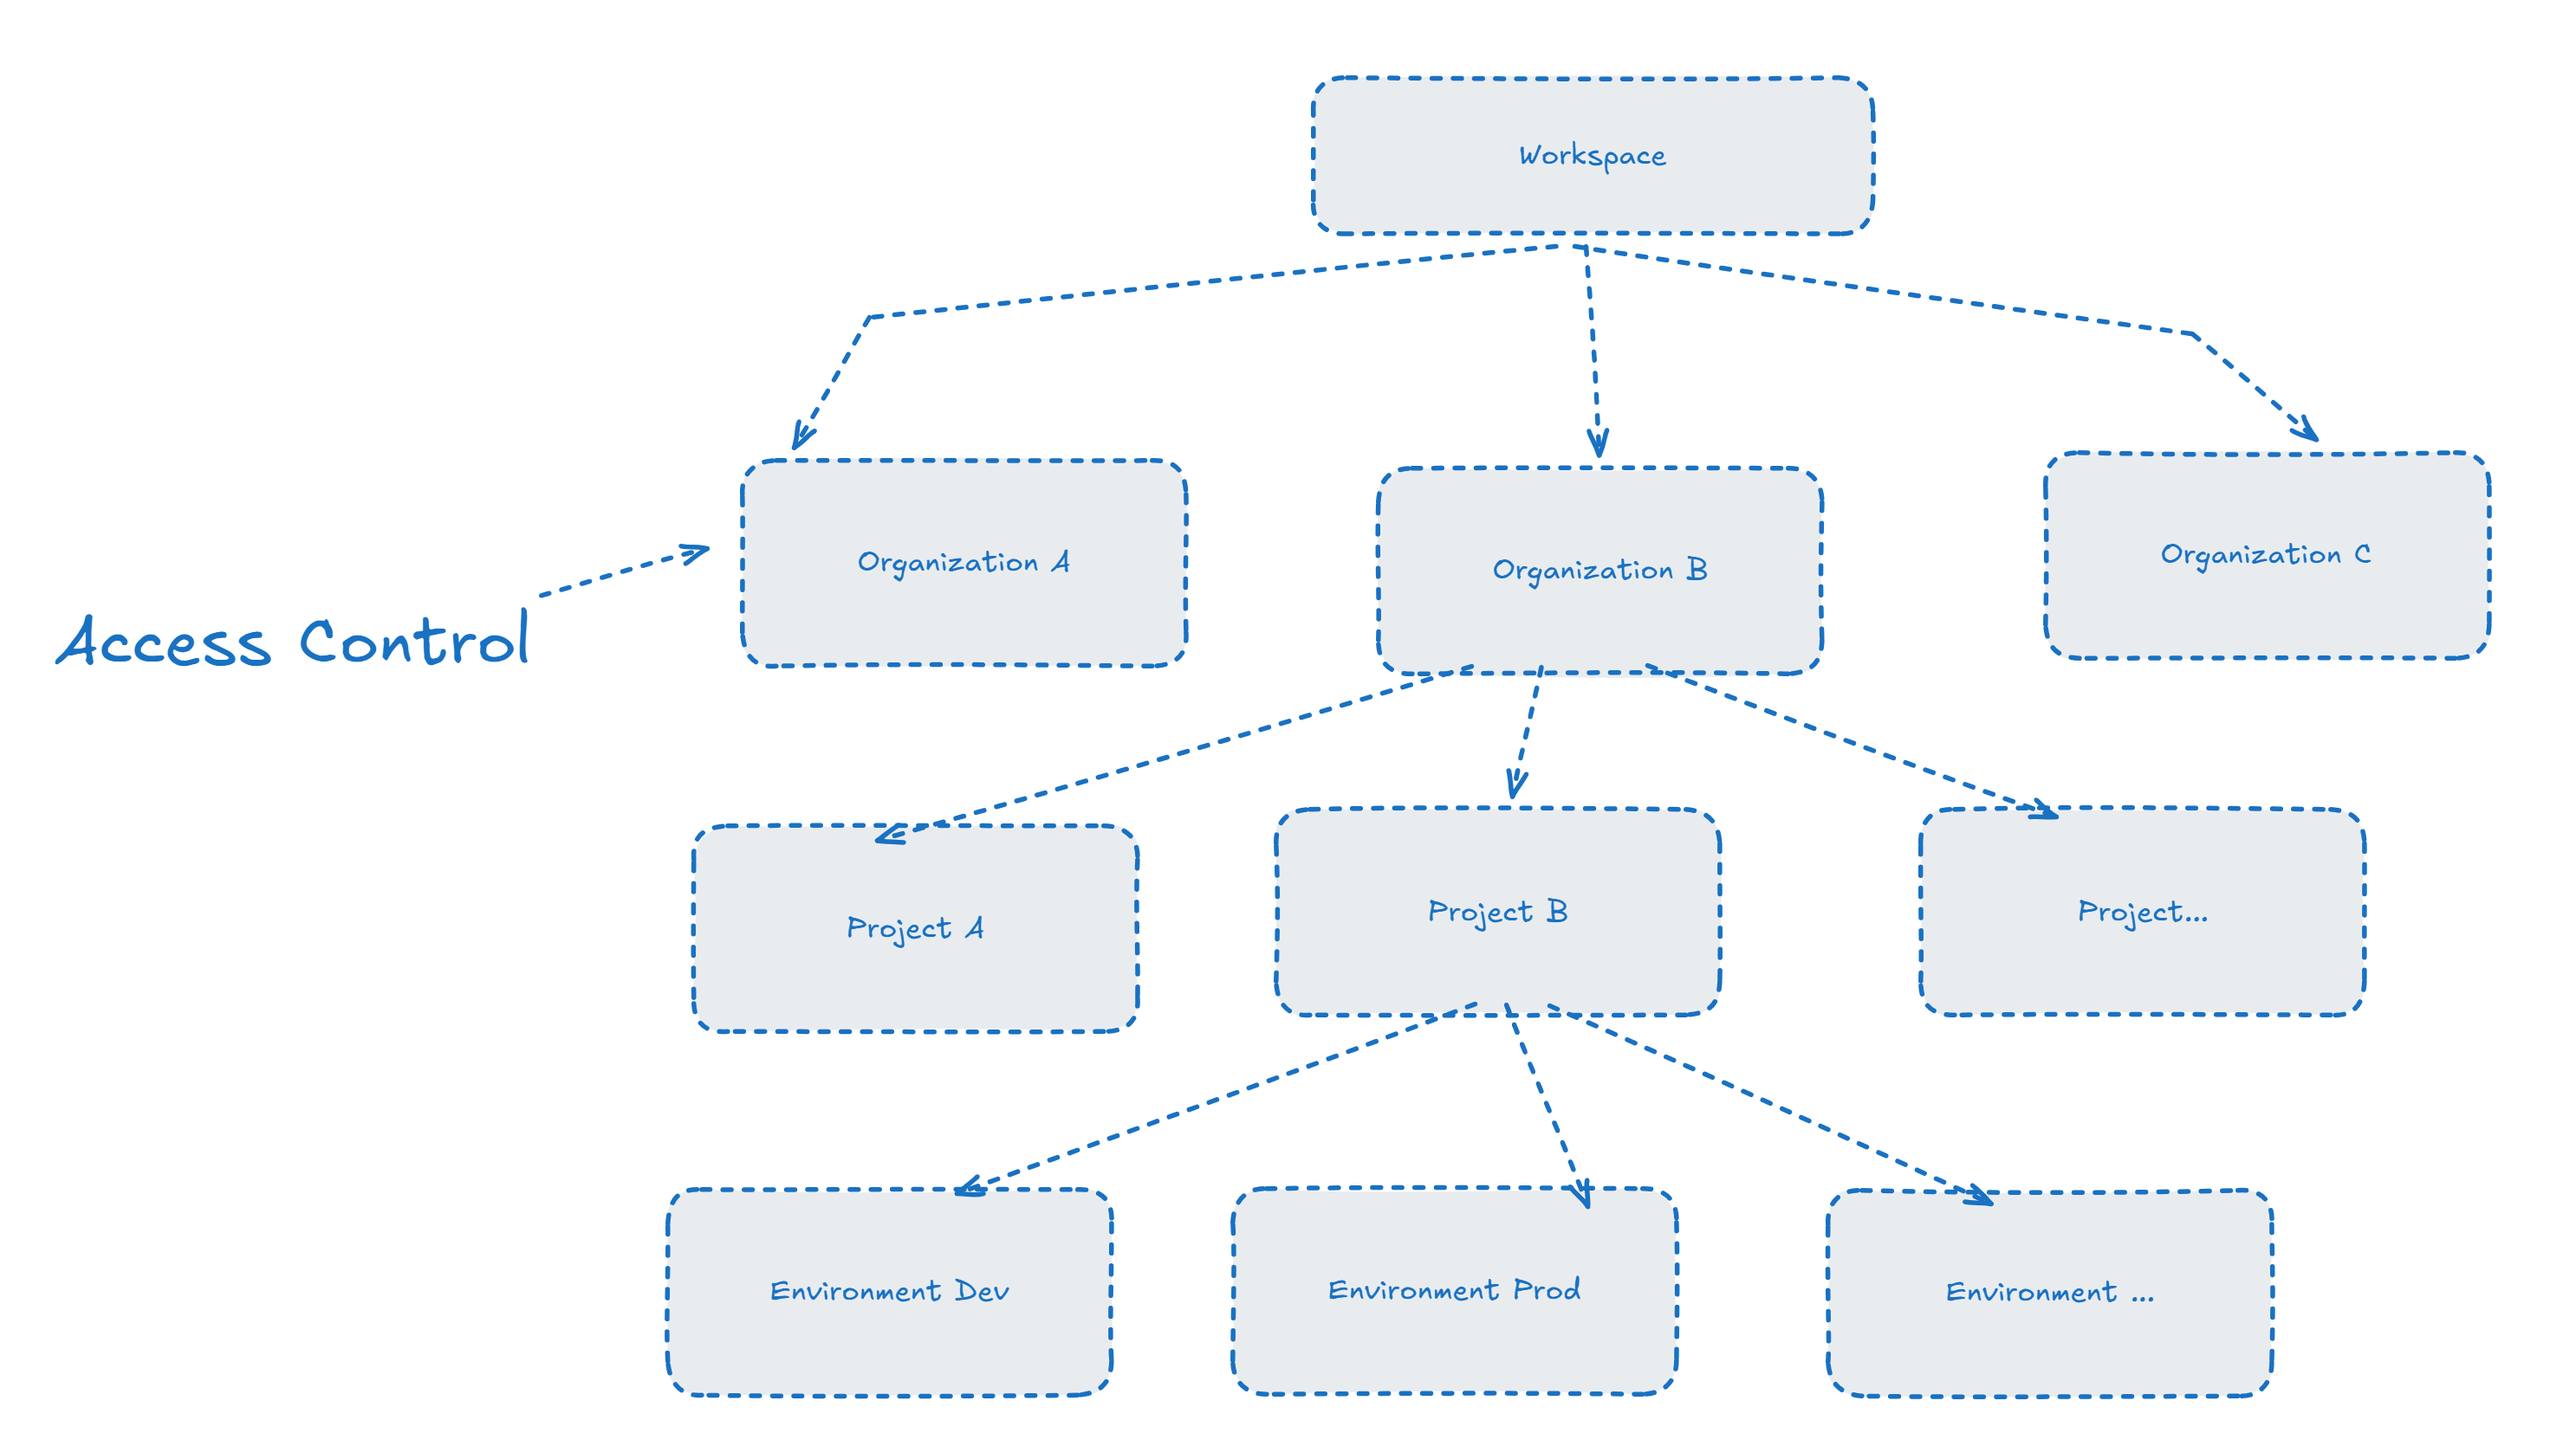
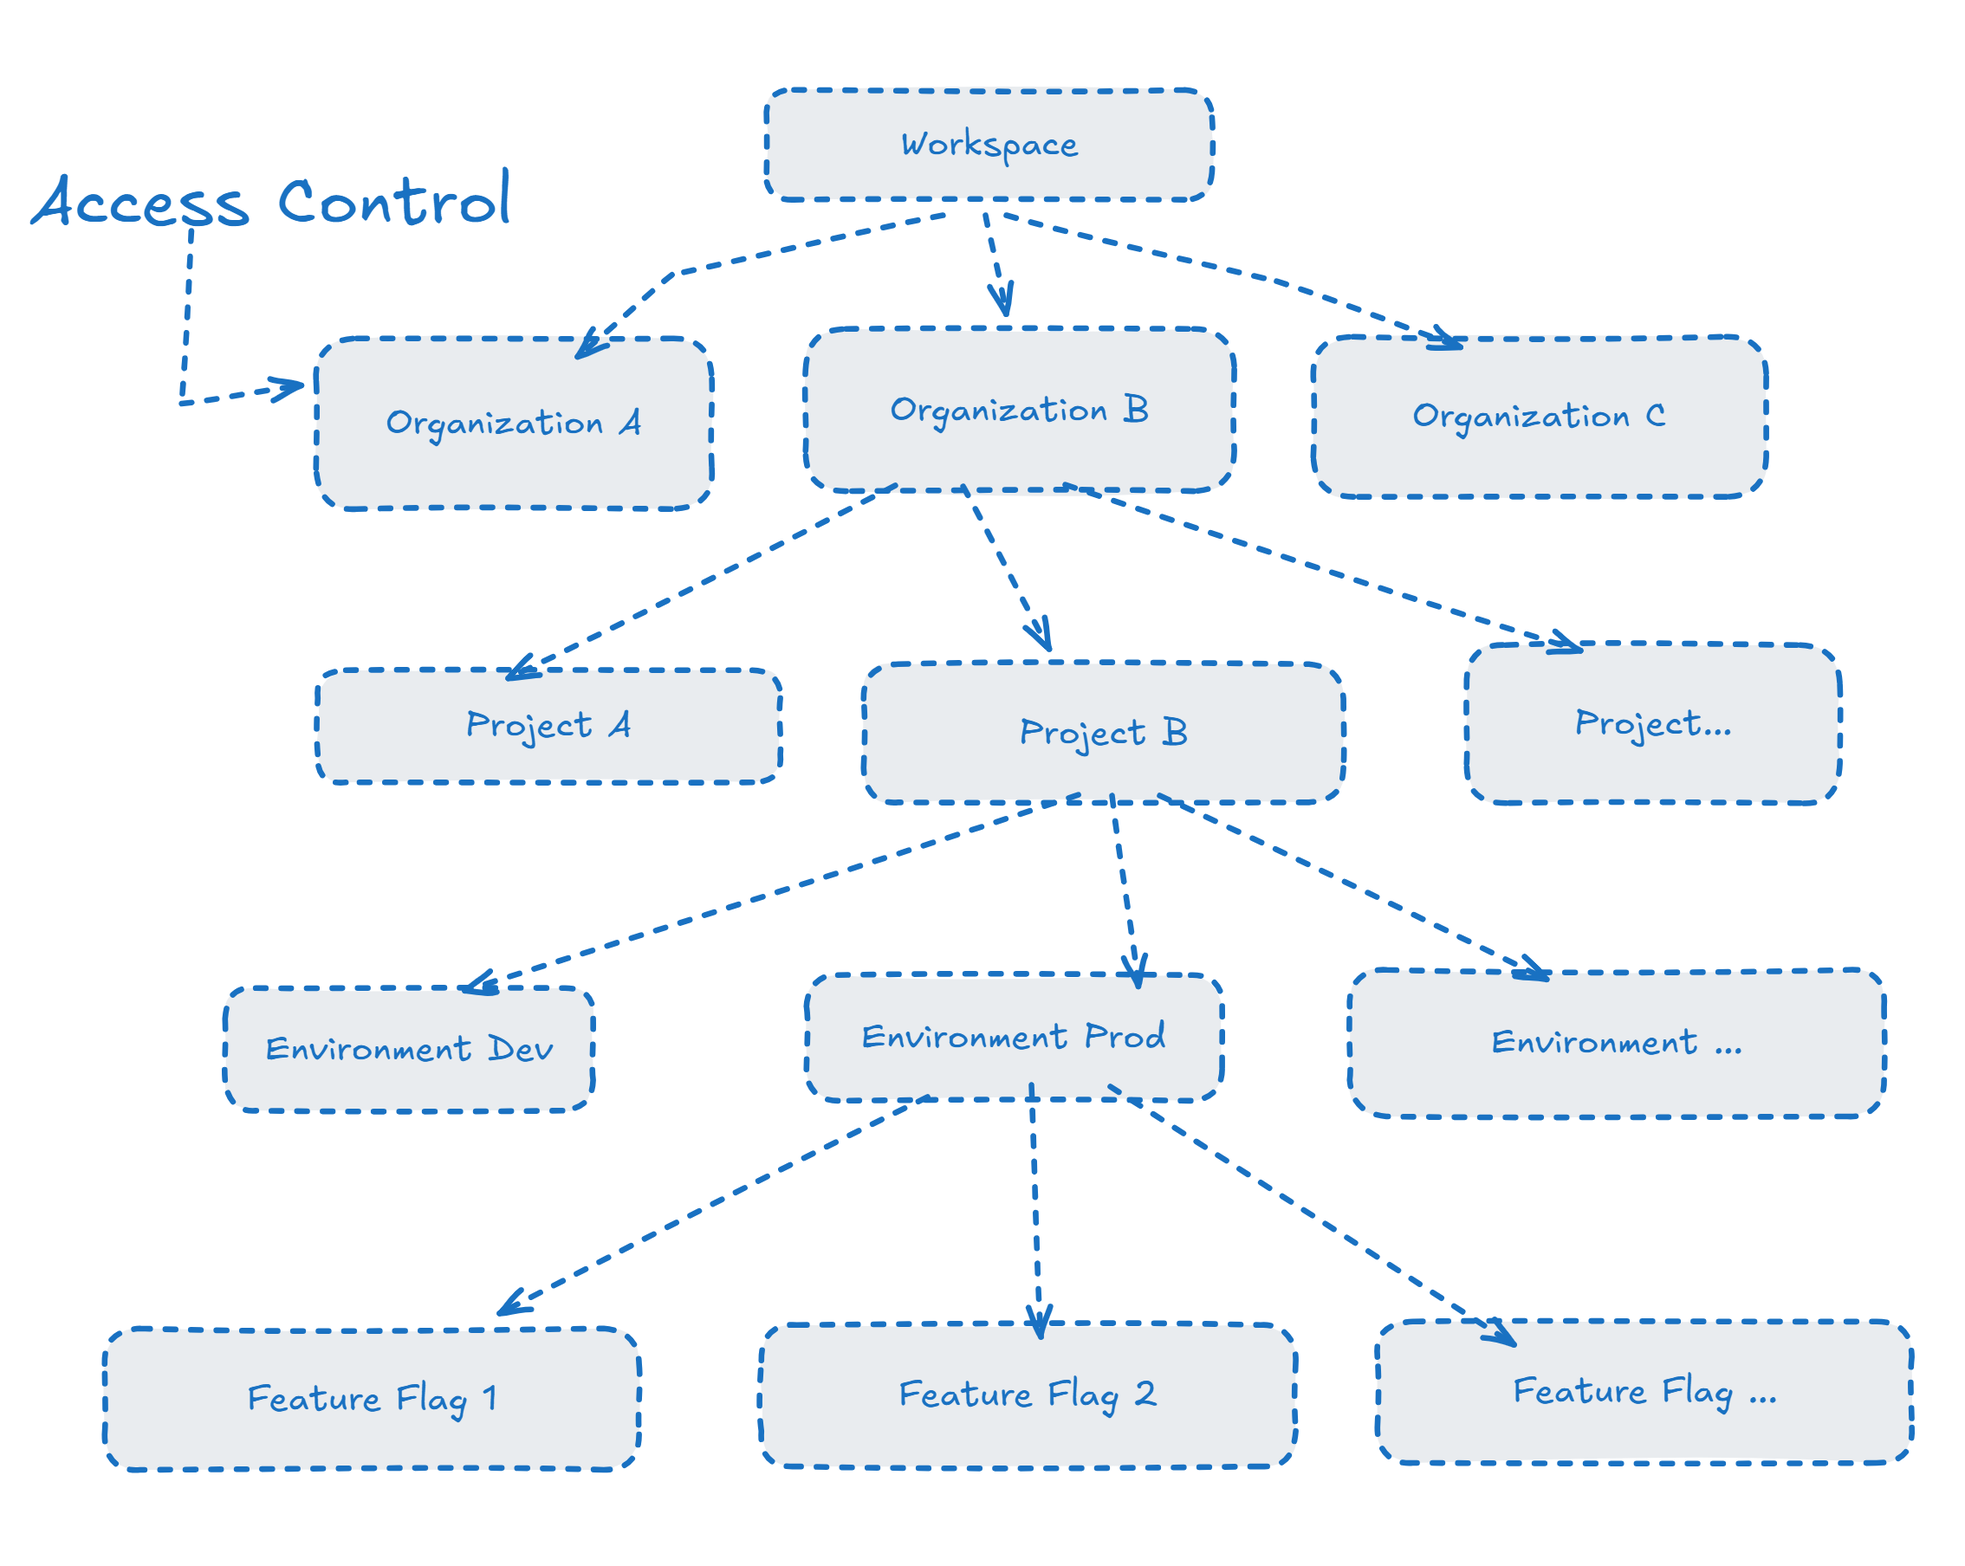
Refactor code structure for improved readability and maintainability

diff --git a/pages/iam/rbac.md b/pages/iam/rbac.md
@@ -109,9 +109,33 @@ As shown above, we assign the policy to the member `project-a-owner@featbit.com`
 
 ## Feature Flag Access Control
 
-### Enable User to Read Feature Flags of Specific Projects/Environments
+Before read or operate a feature flag access control, **make sure the user has access to the project and environment where the feature flag belongs to**.
+
+### Enable User to Operate Feature Flags of Specific Projects/Environments
+
+We will create a policy that includes only permission settings for feature flag in a specific project/environment.
+
+1. Go to the `Policies` page under `IAM` menu.
+2. Click on `Add` button, input the policy name and description, then click `Save`.
+3. In the policy detail page, click on `(+)` icon to add a new permission
+    - Choose `Feature Flag` as the control-level (resource type).
+    - Select the project and environment where the feature flag belongs to in resource selector. By default, you can only select all flags of all projects/environments, you need to select it then click on the label to change it to specific project/environment.
+    ![](../iam/assets/rbac/specify-ff-prod-n-env.png)
+    - In allow or deny selector, choose `Allow`.
+    - In action selector, choose all actions.
+
+![](../iam/assets/rbac/operate-all-ff-in-proj-n-env.png)
+
+4. Click **Save** to save the permission.
+5. Go to `Team` or `Groups` tab to assign this policy to members or groups that need to operate feature flags in the specific project/environment.
 
 ### Enable User to Operate a Specific Feature Flag
+
+The only difference between this and the previous section is to set a specific feature flag in resource selector, as shown below:
+
+![](../iam/assets/rbac/set-feature-flag-permission.png)
+
+Then save the permission and assign the policy to members or groups.
 
 ### Disable User to Operate a Specific Feature Flag
 
